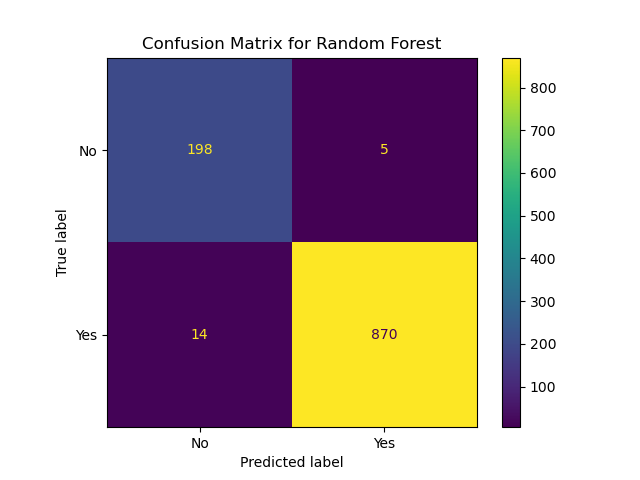
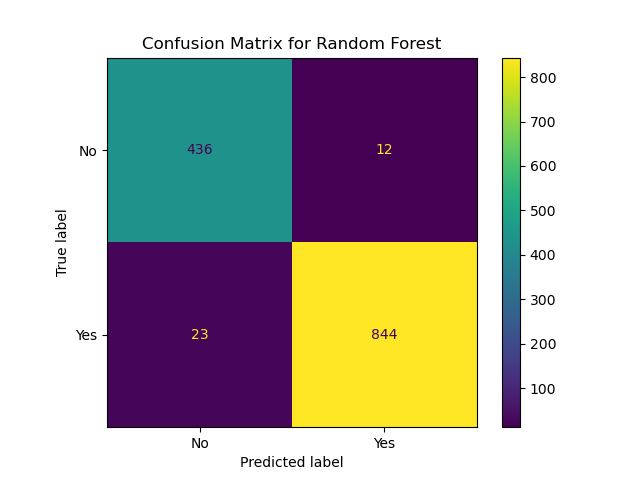
Added SVM algorithm with corresponding confusion matrix and coefs weights

diff --git a/models/support_vector_machine.py b/models/support_vector_machine.py
@@ -1,15 +1,15 @@
 import matplotlib.pyplot as plt 
 import models.preprocess as preprocess, models.utils as utils
-from sklearn.ensemble import RandomForestClassifier
+from sklearn import svm
 from sklearn.metrics import classification_report
 from sklearn.inspection import permutation_importance
 from sklearn.metrics import plot_confusion_matrix
 
 
-clf = RandomForestClassifier()
+clf = svm.SVC(kernel="linear")
 
-def random_forest(sampling):
-    print("Running Random Forest...")
+def support_vector_machine(sampling):
+    print("Running support vector machine...")
     DATA_FILE = utils.get_data_directory()
 
     # The argument of the function will determine weather we use oversampling or not
@@ -26,15 +26,15 @@ def random_forest(sampling):
     report = classification_report(y_test, model.predict(X_test), target_names=["No", "Yes"])
     print(report)
 
-    feature_importances = model.feature_importances_
-    print(feature_importances)
+    weights = model.coef_
+    print(weights)
     features = utils.get_feature_names()
-    top_feature_importances = list(sorted(enumerate(feature_importances), key = lambda x: x[1], reverse = True))
+    top_weights = list(sorted(enumerate(weights[0]), key = lambda x: x[1], reverse = True))
 
     u'•' == u'\u2022'
-    print(f'The top three features are: ')
-    print(f'\t\u2022 {features[top_feature_importances[0][0]]} with a mean importance of {round(top_feature_importances[0][1], 4)}')
-    print(f'\t\u2022 {features[top_feature_importances[1][0]]} with a mean importance of {round(top_feature_importances[1][1], 4)}')
-    print(f'\t\u2022 {features[top_feature_importances[2][0]]} with a mean importance of {round(top_feature_importances[2][1], 4)}') 
+    print(f'The 3 features with the largest weights assigned to them are: ')
+    print(f'\t\u2022 {features[top_weights[0][0]]} with a mean importance of {round(top_weights[0][1], 4)}')
+    print(f'\t\u2022 {features[top_weights[1][0]]} with a mean importance of {round(top_weights[1][1], 4)}')
+    print(f'\t\u2022 {features[top_weights[2][0]]} with a mean importance of {round(top_weights[2][1], 4)}') 
 
-    utils.generate_report("Random Forest", "Random Forest", model, X_test, y_test, report_dict)
+    utils.generate_report("SVM", "SVM", model, X_test, y_test, report_dict)

diff --git a/run.py b/run.py
@@ -1,5 +1,5 @@
 import os, shutil
-import models.utils as utils, models.naive_bayes as gnb, models.decision_tree as dt, models.random_forest as rf, models.linear_regression as lr
+import models.utils as utils, models.naive_bayes as gnb, models.decision_tree as dt, models.random_forest as rf, models.support_vector_machine as svm
 
 if __name__ == "__main__":
     assert utils.assert_correct_directory(), f"Make sure you execute from the project root directory!"
@@ -7,7 +7,8 @@ if __name__ == "__main__":
         shutil.rmtree("results")
     os.makedirs("results")
 
+    # Change argument to True to use oversampling
     gnb.naive_bayes(False)
     dt.decision_tree(False)
     rf.random_forest(False)
-    #lr.LinearRegression(False)
+    svm.support_vector_machine(False)
